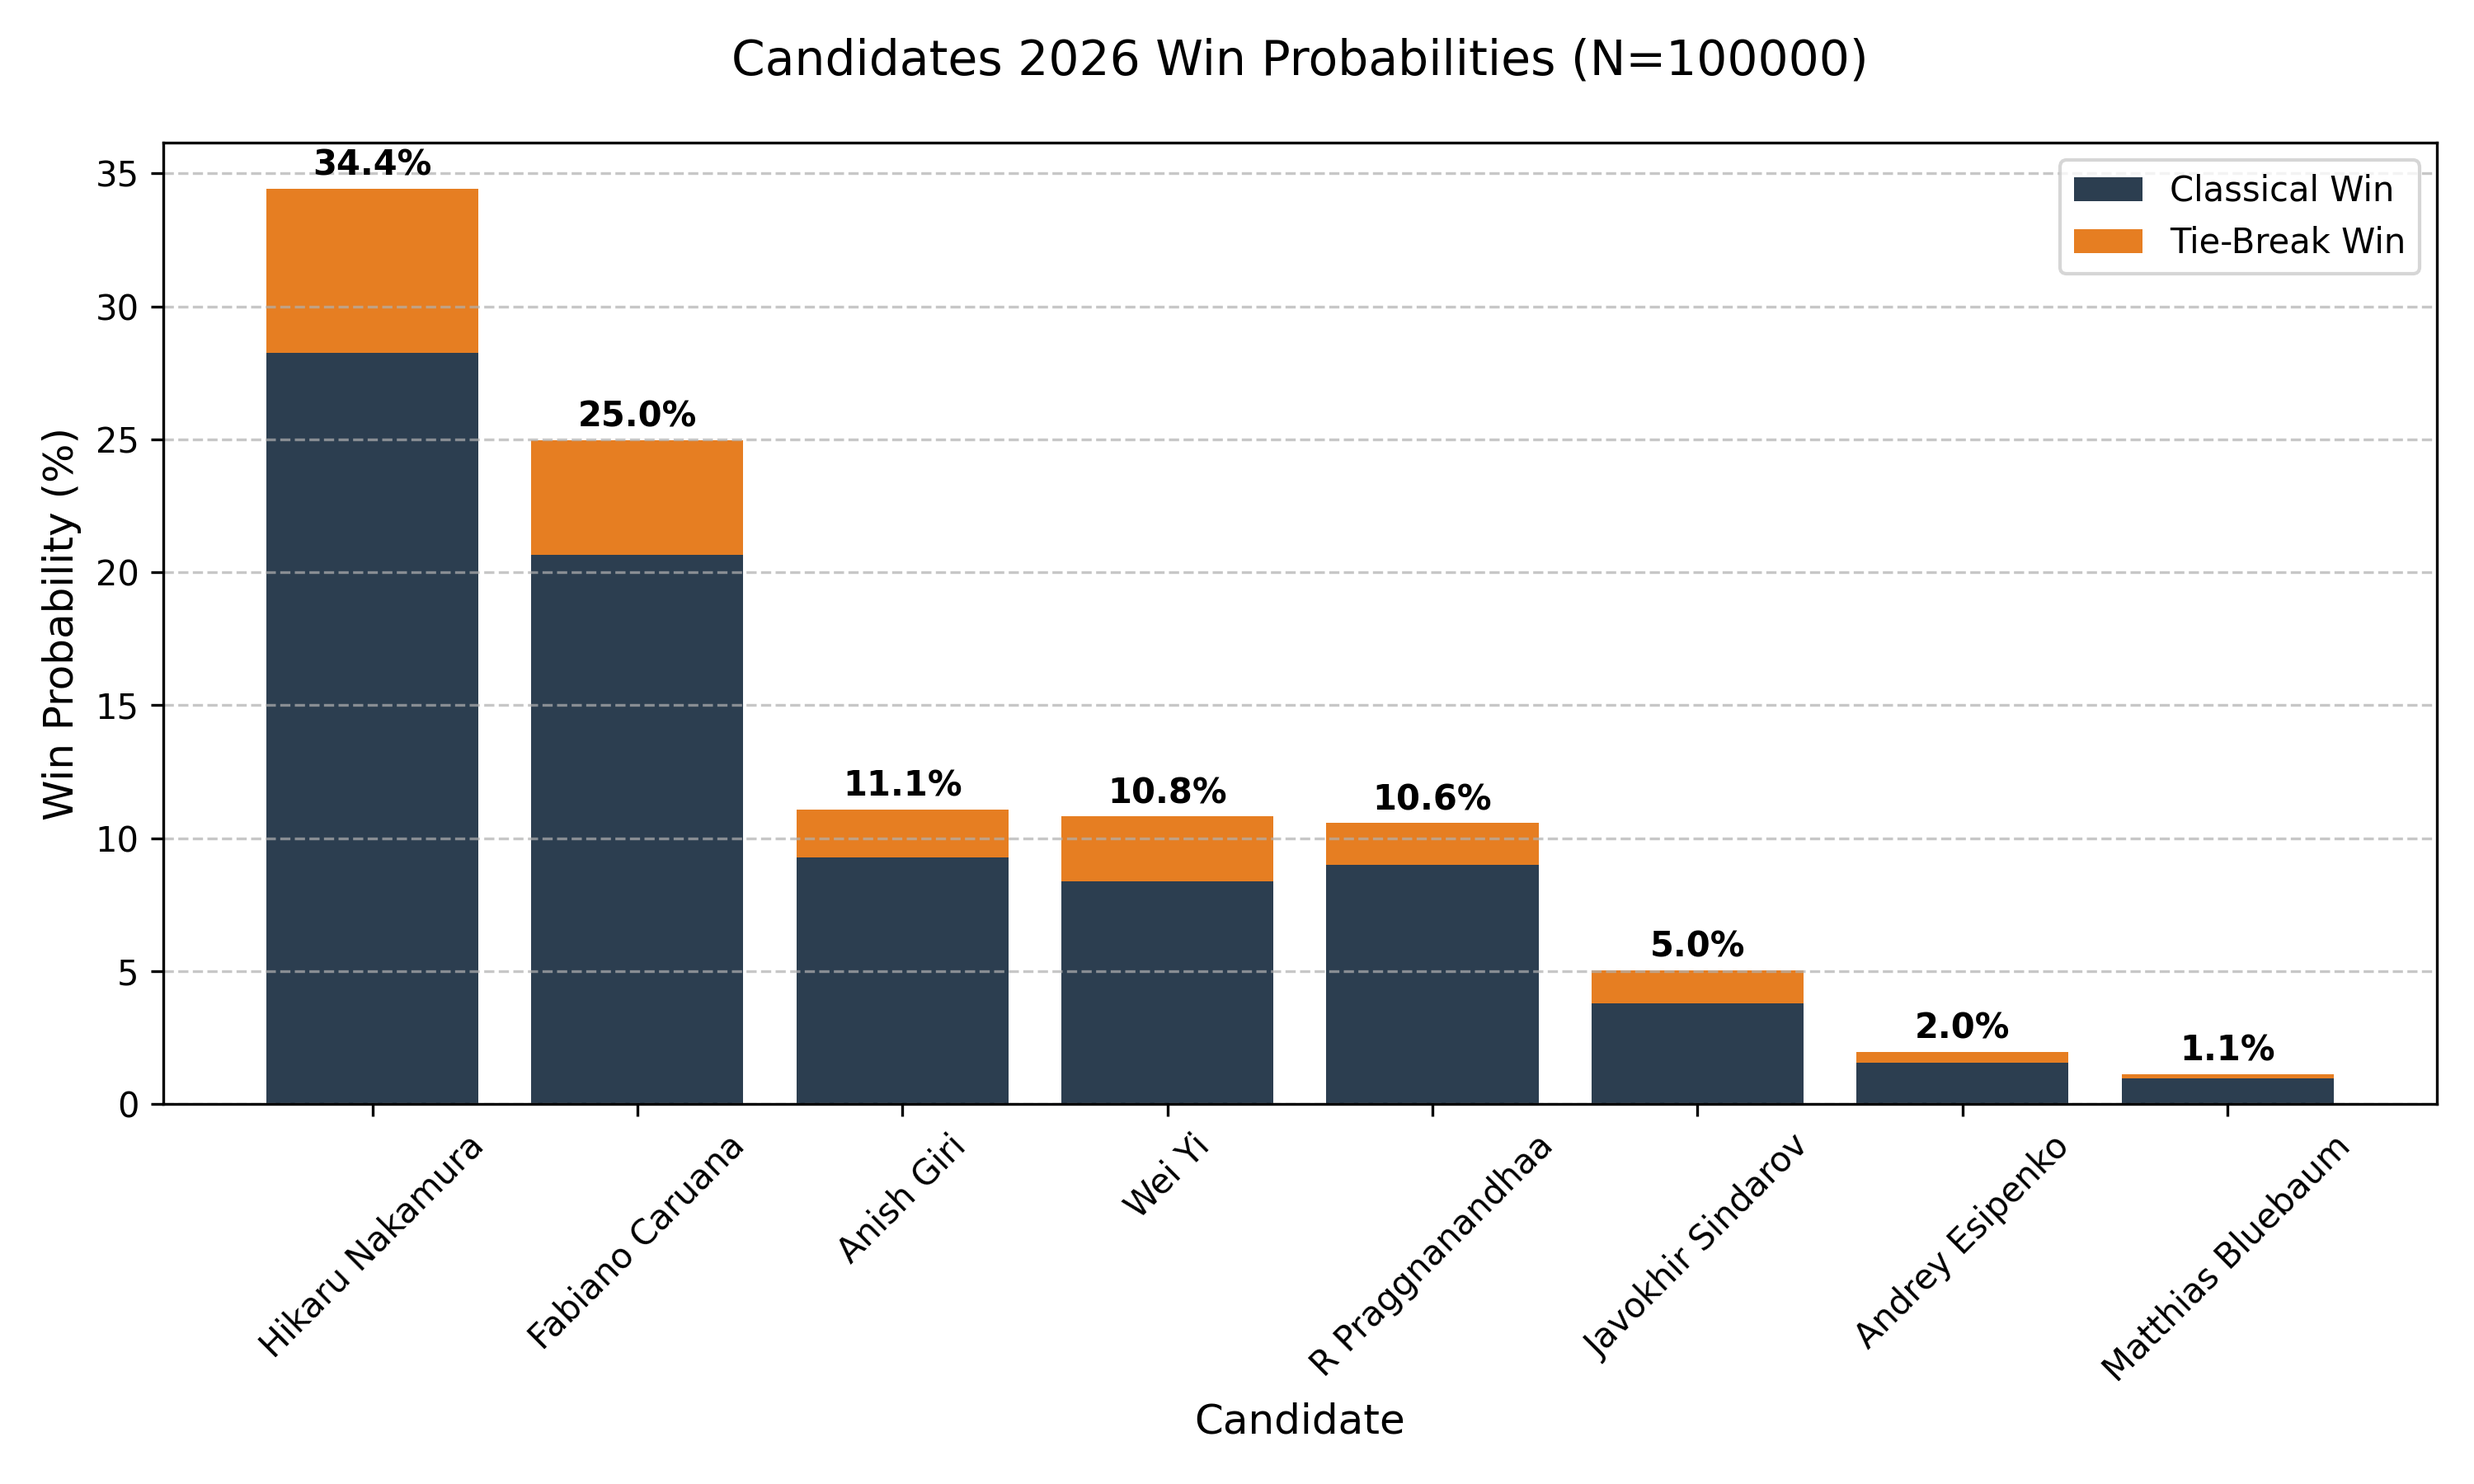
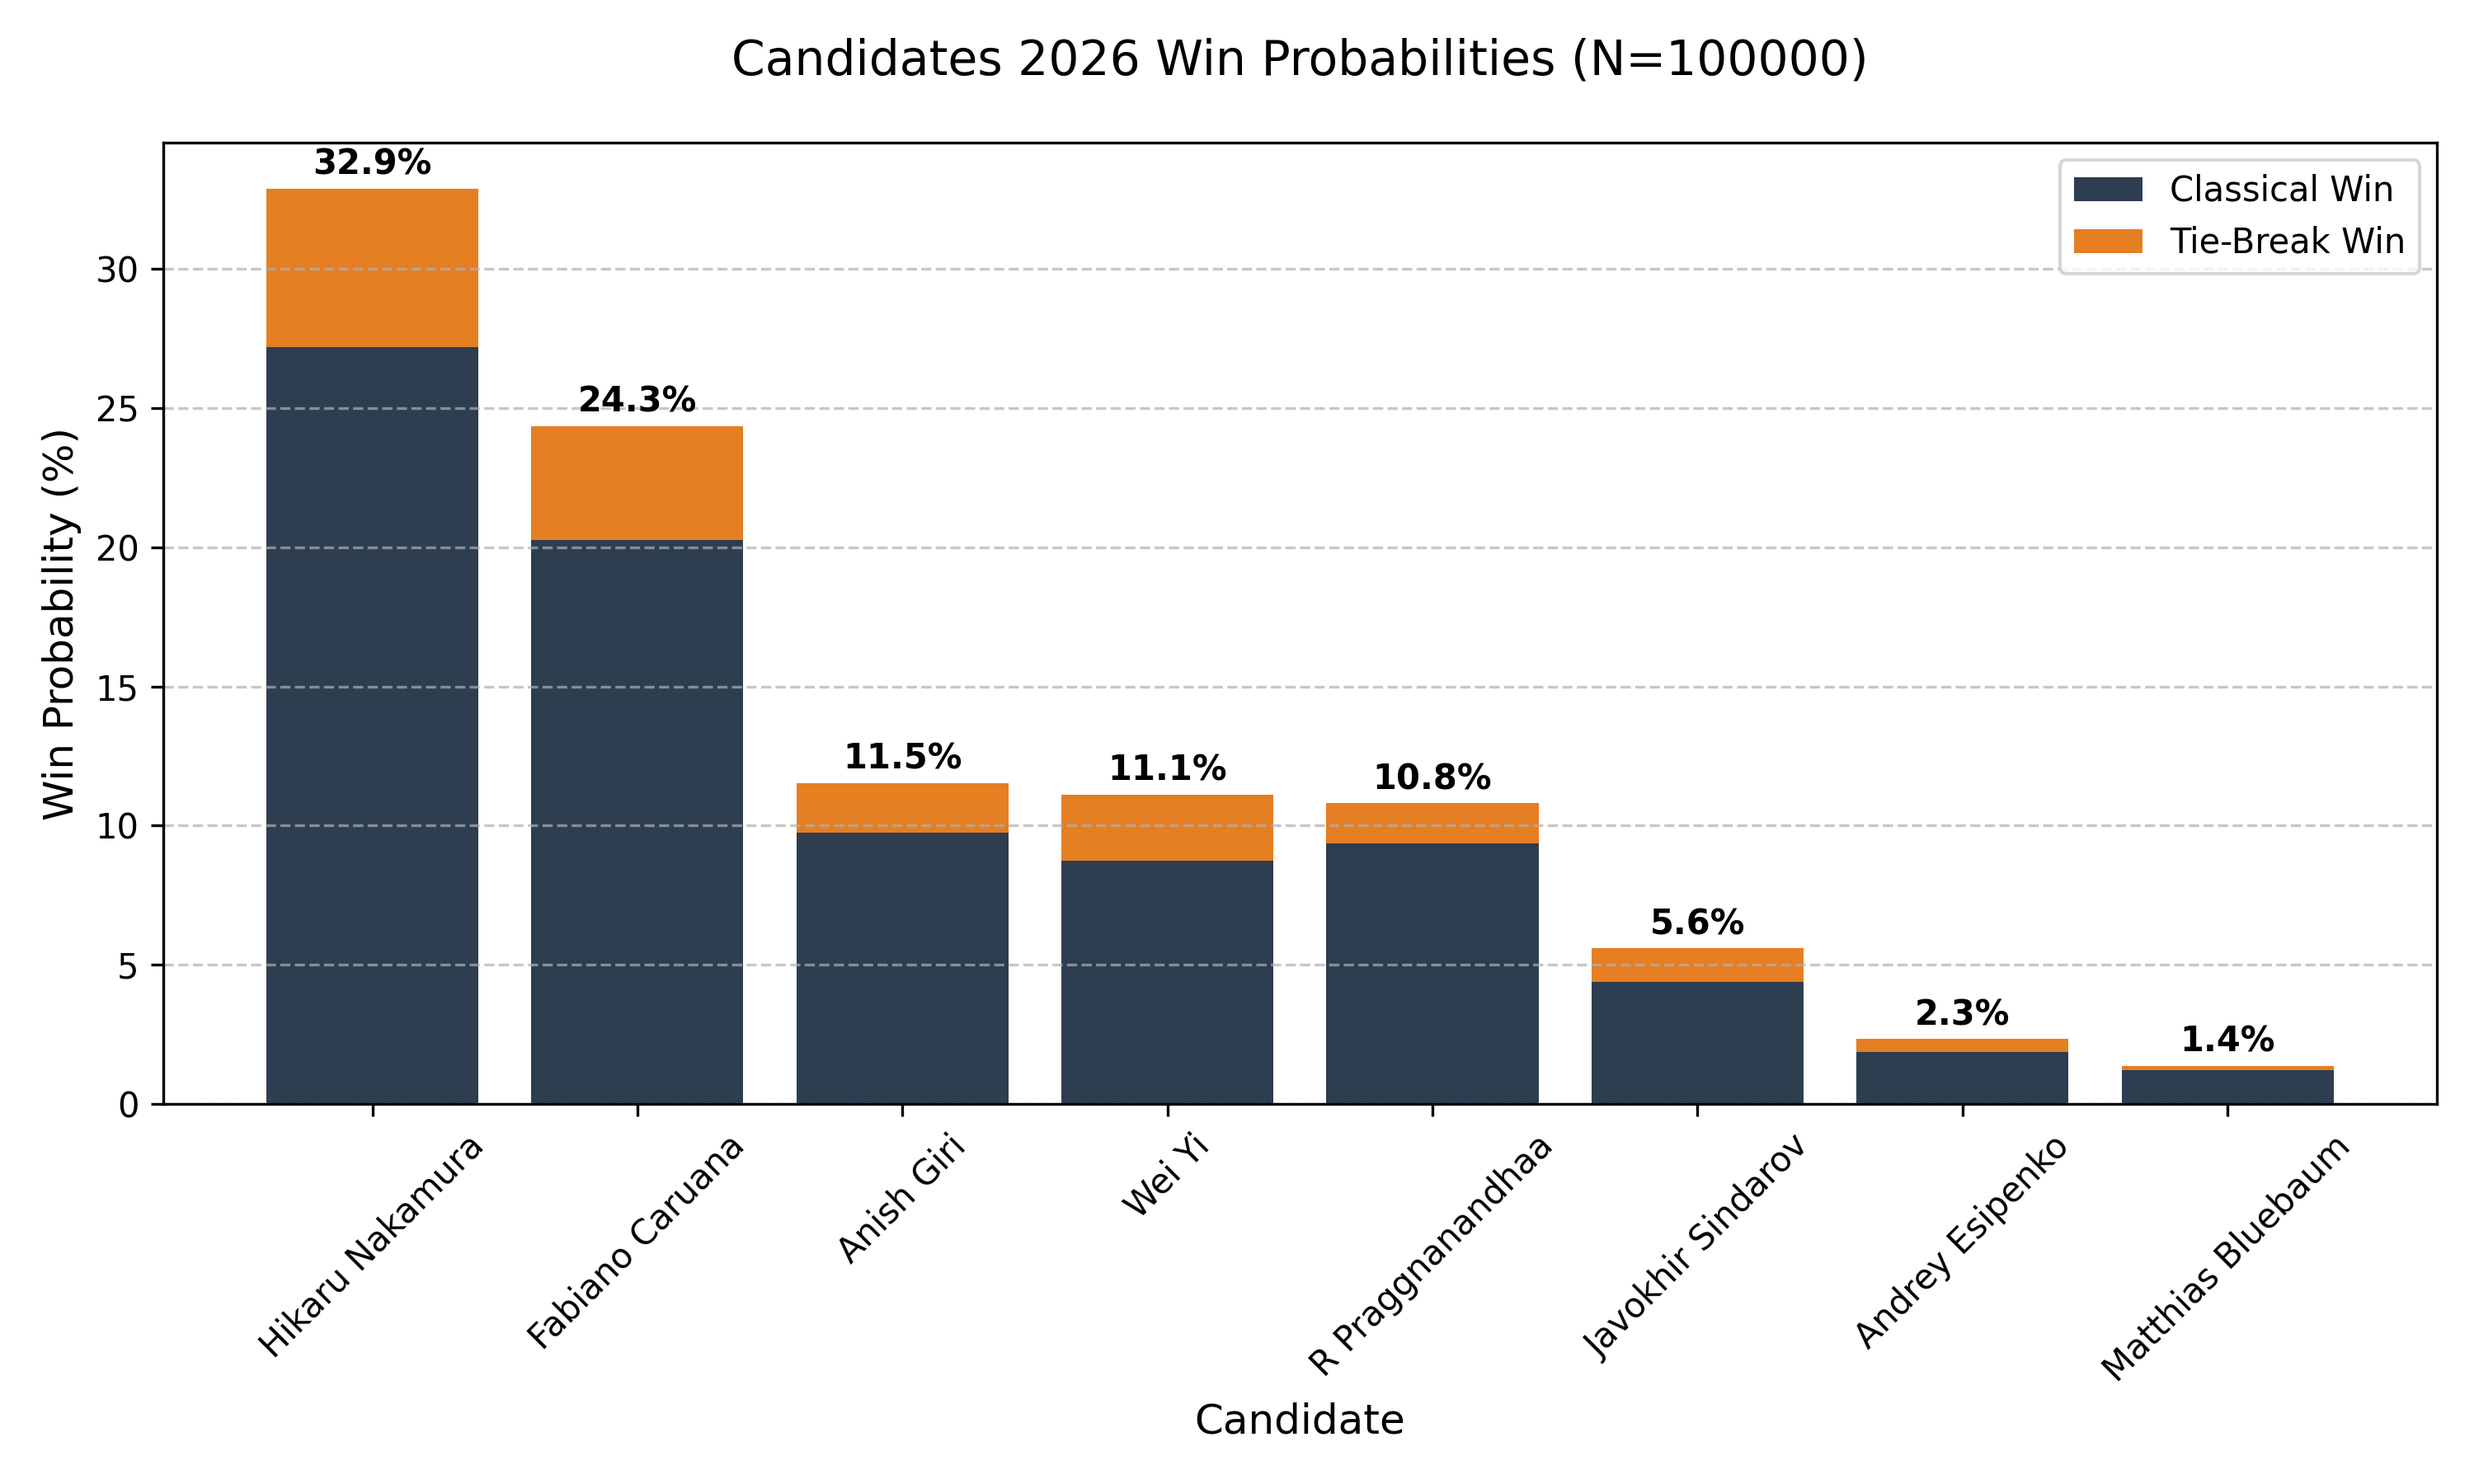
Version 2.1

diff --git a/main.py b/main.py
@@ -15,7 +15,7 @@ PERFORMANCE_RATINGS_FILE = "candidates_performance_ratings.json"
 WHITE_ELO_BONUS_CLASSICAL = 35
 WHITE_ELO_BONUS_RAPID = 20
 WHITE_ELO_BONUS_BLITZ = 10
-PERFORMANCE_VARIANCE = 40
+PERFORMANCE_VARIANCE = 50
 
 MIN_DRAW_PROB = 0.35
 DRAW_FACTOR_RAPID = 0.7

diff --git a/README.md b/README.md
@@ -2,7 +2,7 @@
 
 A probabilistic analysis of the 2026 FIDE Candidates Tournament, utilizing a Monte Carlo simulation ($N=100,000$).
 
-The model can be used with Performance Ratings (TPR) against elite opposition ($>2600$ Elo) from the provided database of games in 2024 and 2025, or updated FIDE ratings using the web scraper. To account for the natural variance in player form, the model samples each player's tournament strength from a normal distribution $N(\mu, \sigma=40)$ at the start of each simulation iteration.
+The model can be used with Performance Ratings (TPR) against elite opposition ($>2600$ Elo) from the provided database of games in 2024 and 2025, or updated FIDE ratings using the web scraper. To account for the natural variance in player form, the model samples each player's tournament strength from a normal distribution $N(\mu, \sigma=50)$ at the start of each simulation iteration.
 
 #### Results according to the ratings on 25/1/2026
 ![Forecast Chart](candidates_forecast.png)
@@ -18,7 +18,7 @@ $$R_{p,i} \sim \mathcal{N}(\mu_{R}, \sigma^2)$$
 
 Where:
 * $\mu_{R}$ is the player's historical TPR against 2600+ opposition (2024-2025), or their updated FIDE rating.
-* $\sigma$ is the performance standard deviation (set to $40$ Elo), representing the standard error of performance for a single event.
+* $\sigma$ is the performance standard deviation (set to $50$ Elo), representing the standard error of performance for a single event.
 
 TPR rating is calculated by adding the average opponent rating to a FIDE rating difference value associated with the fractional score. The draw rate of each player is also calculated from the 2024/2025 2600+ data.
 
